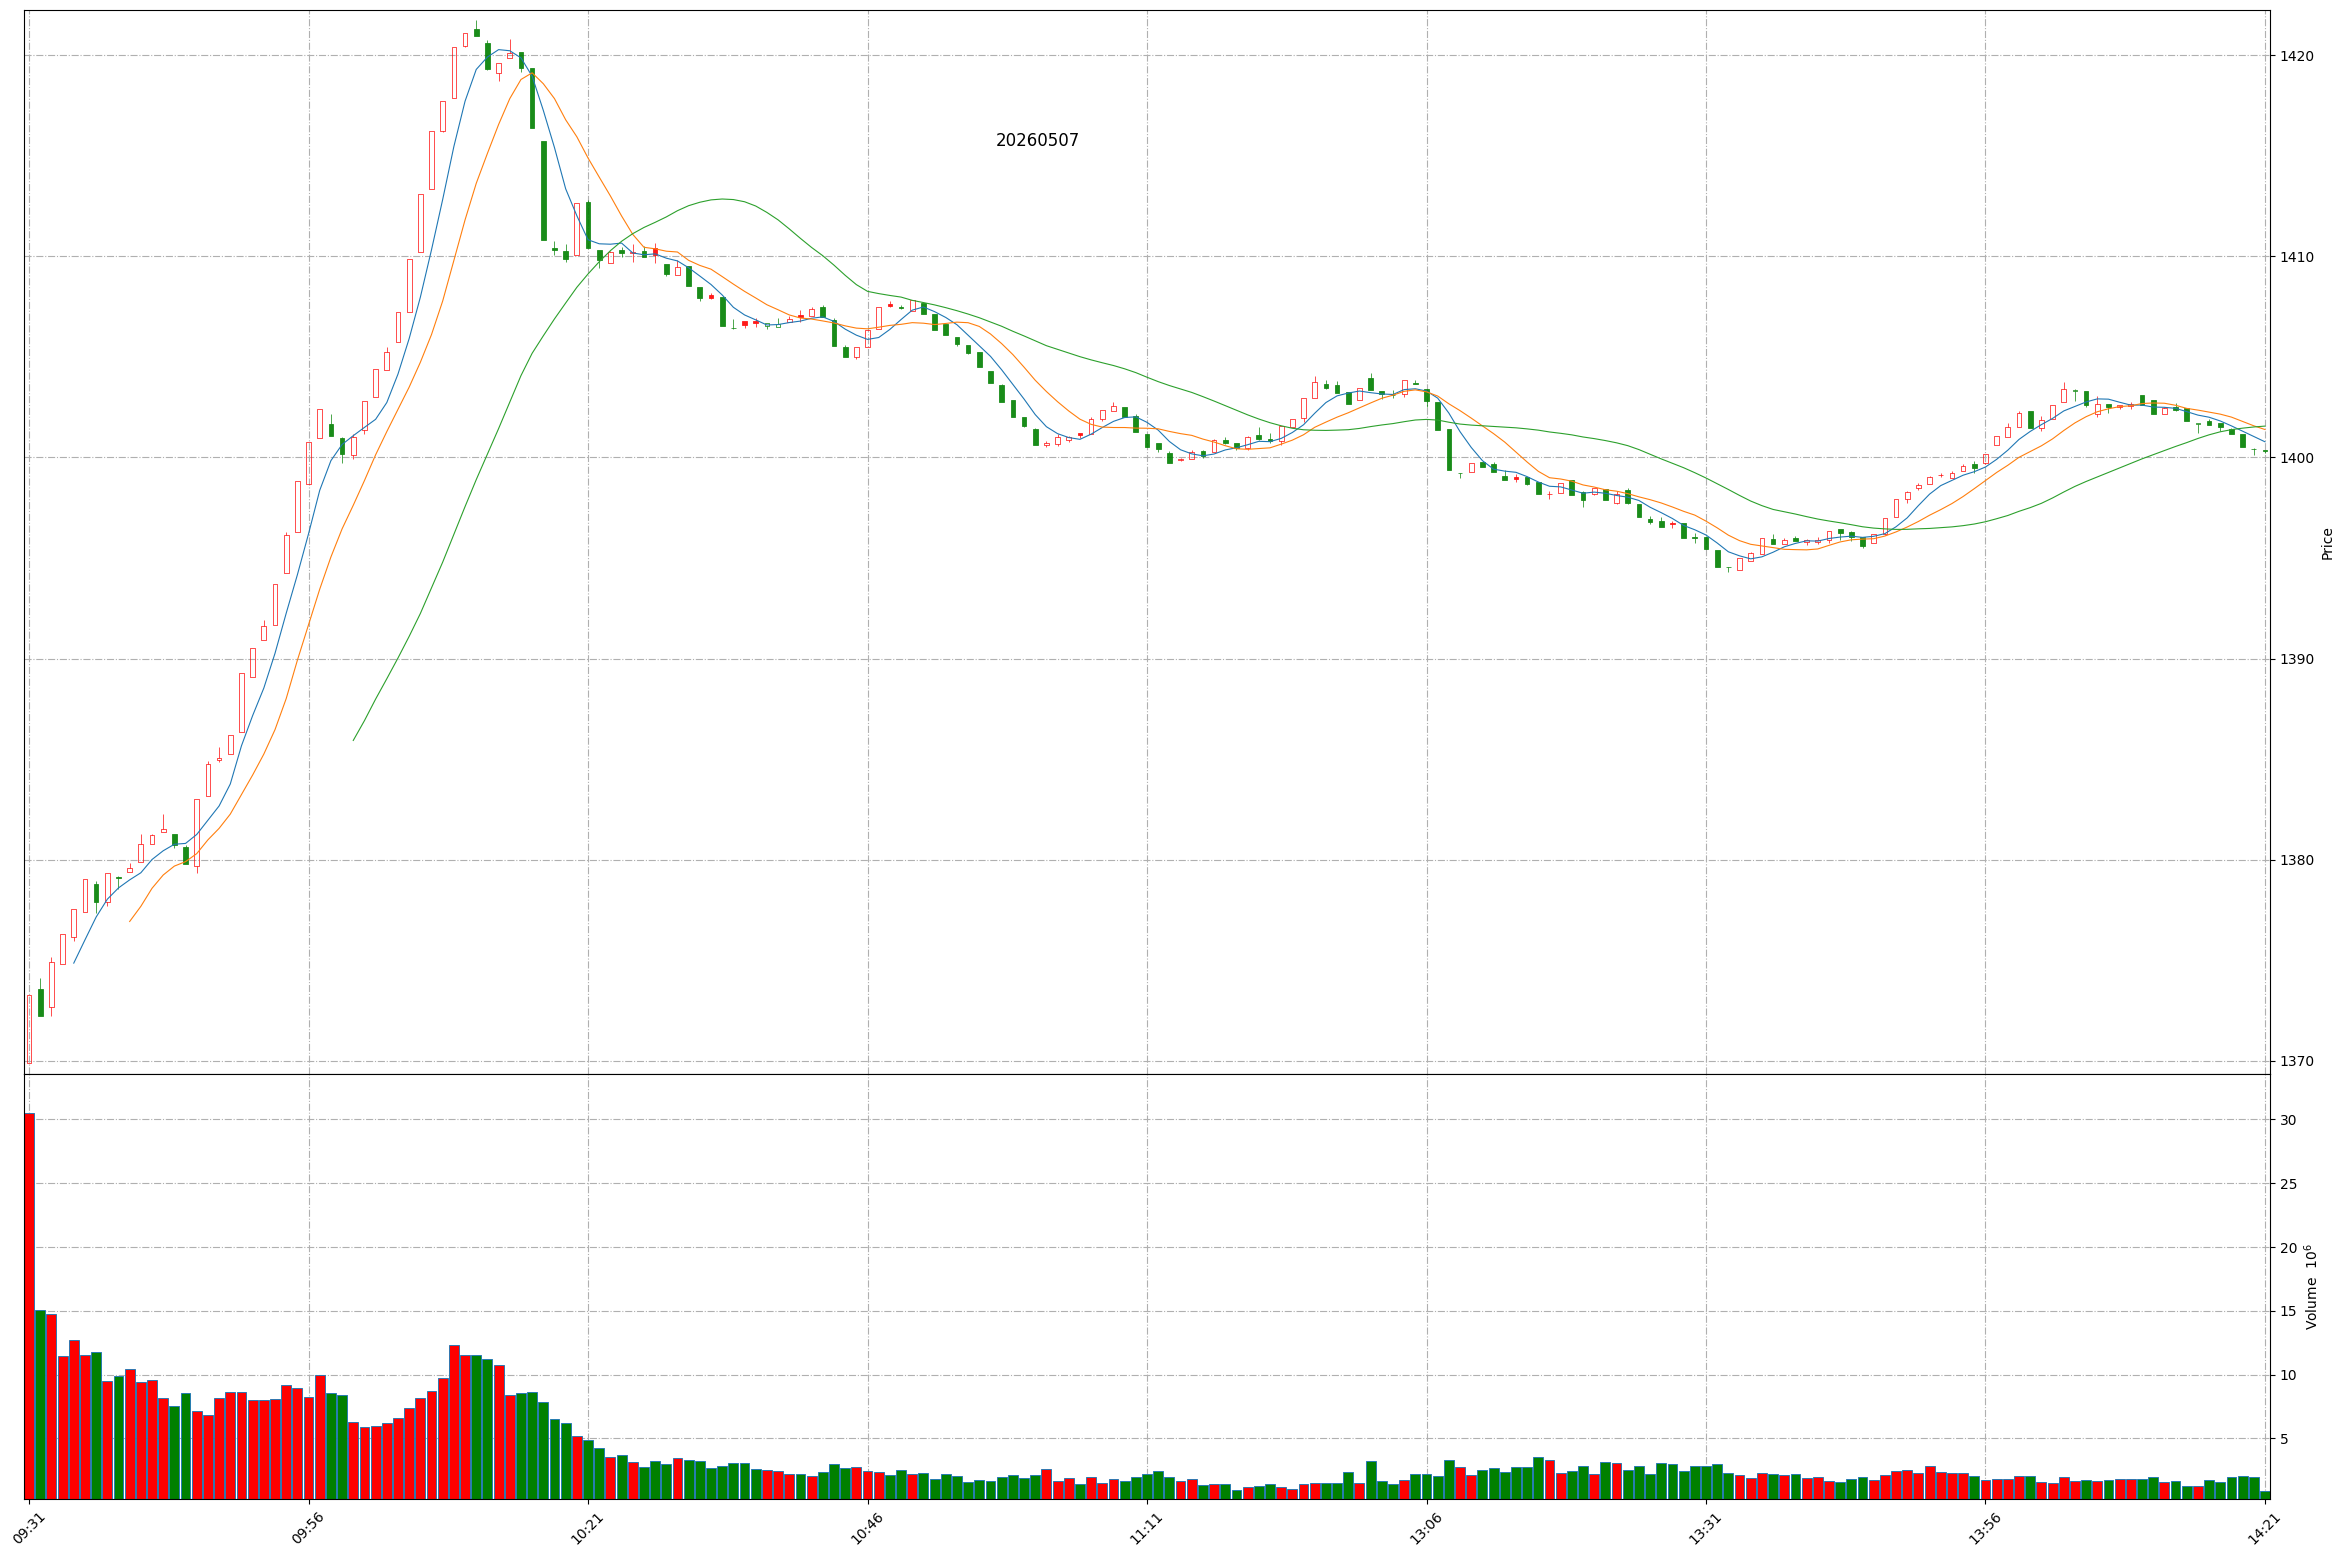
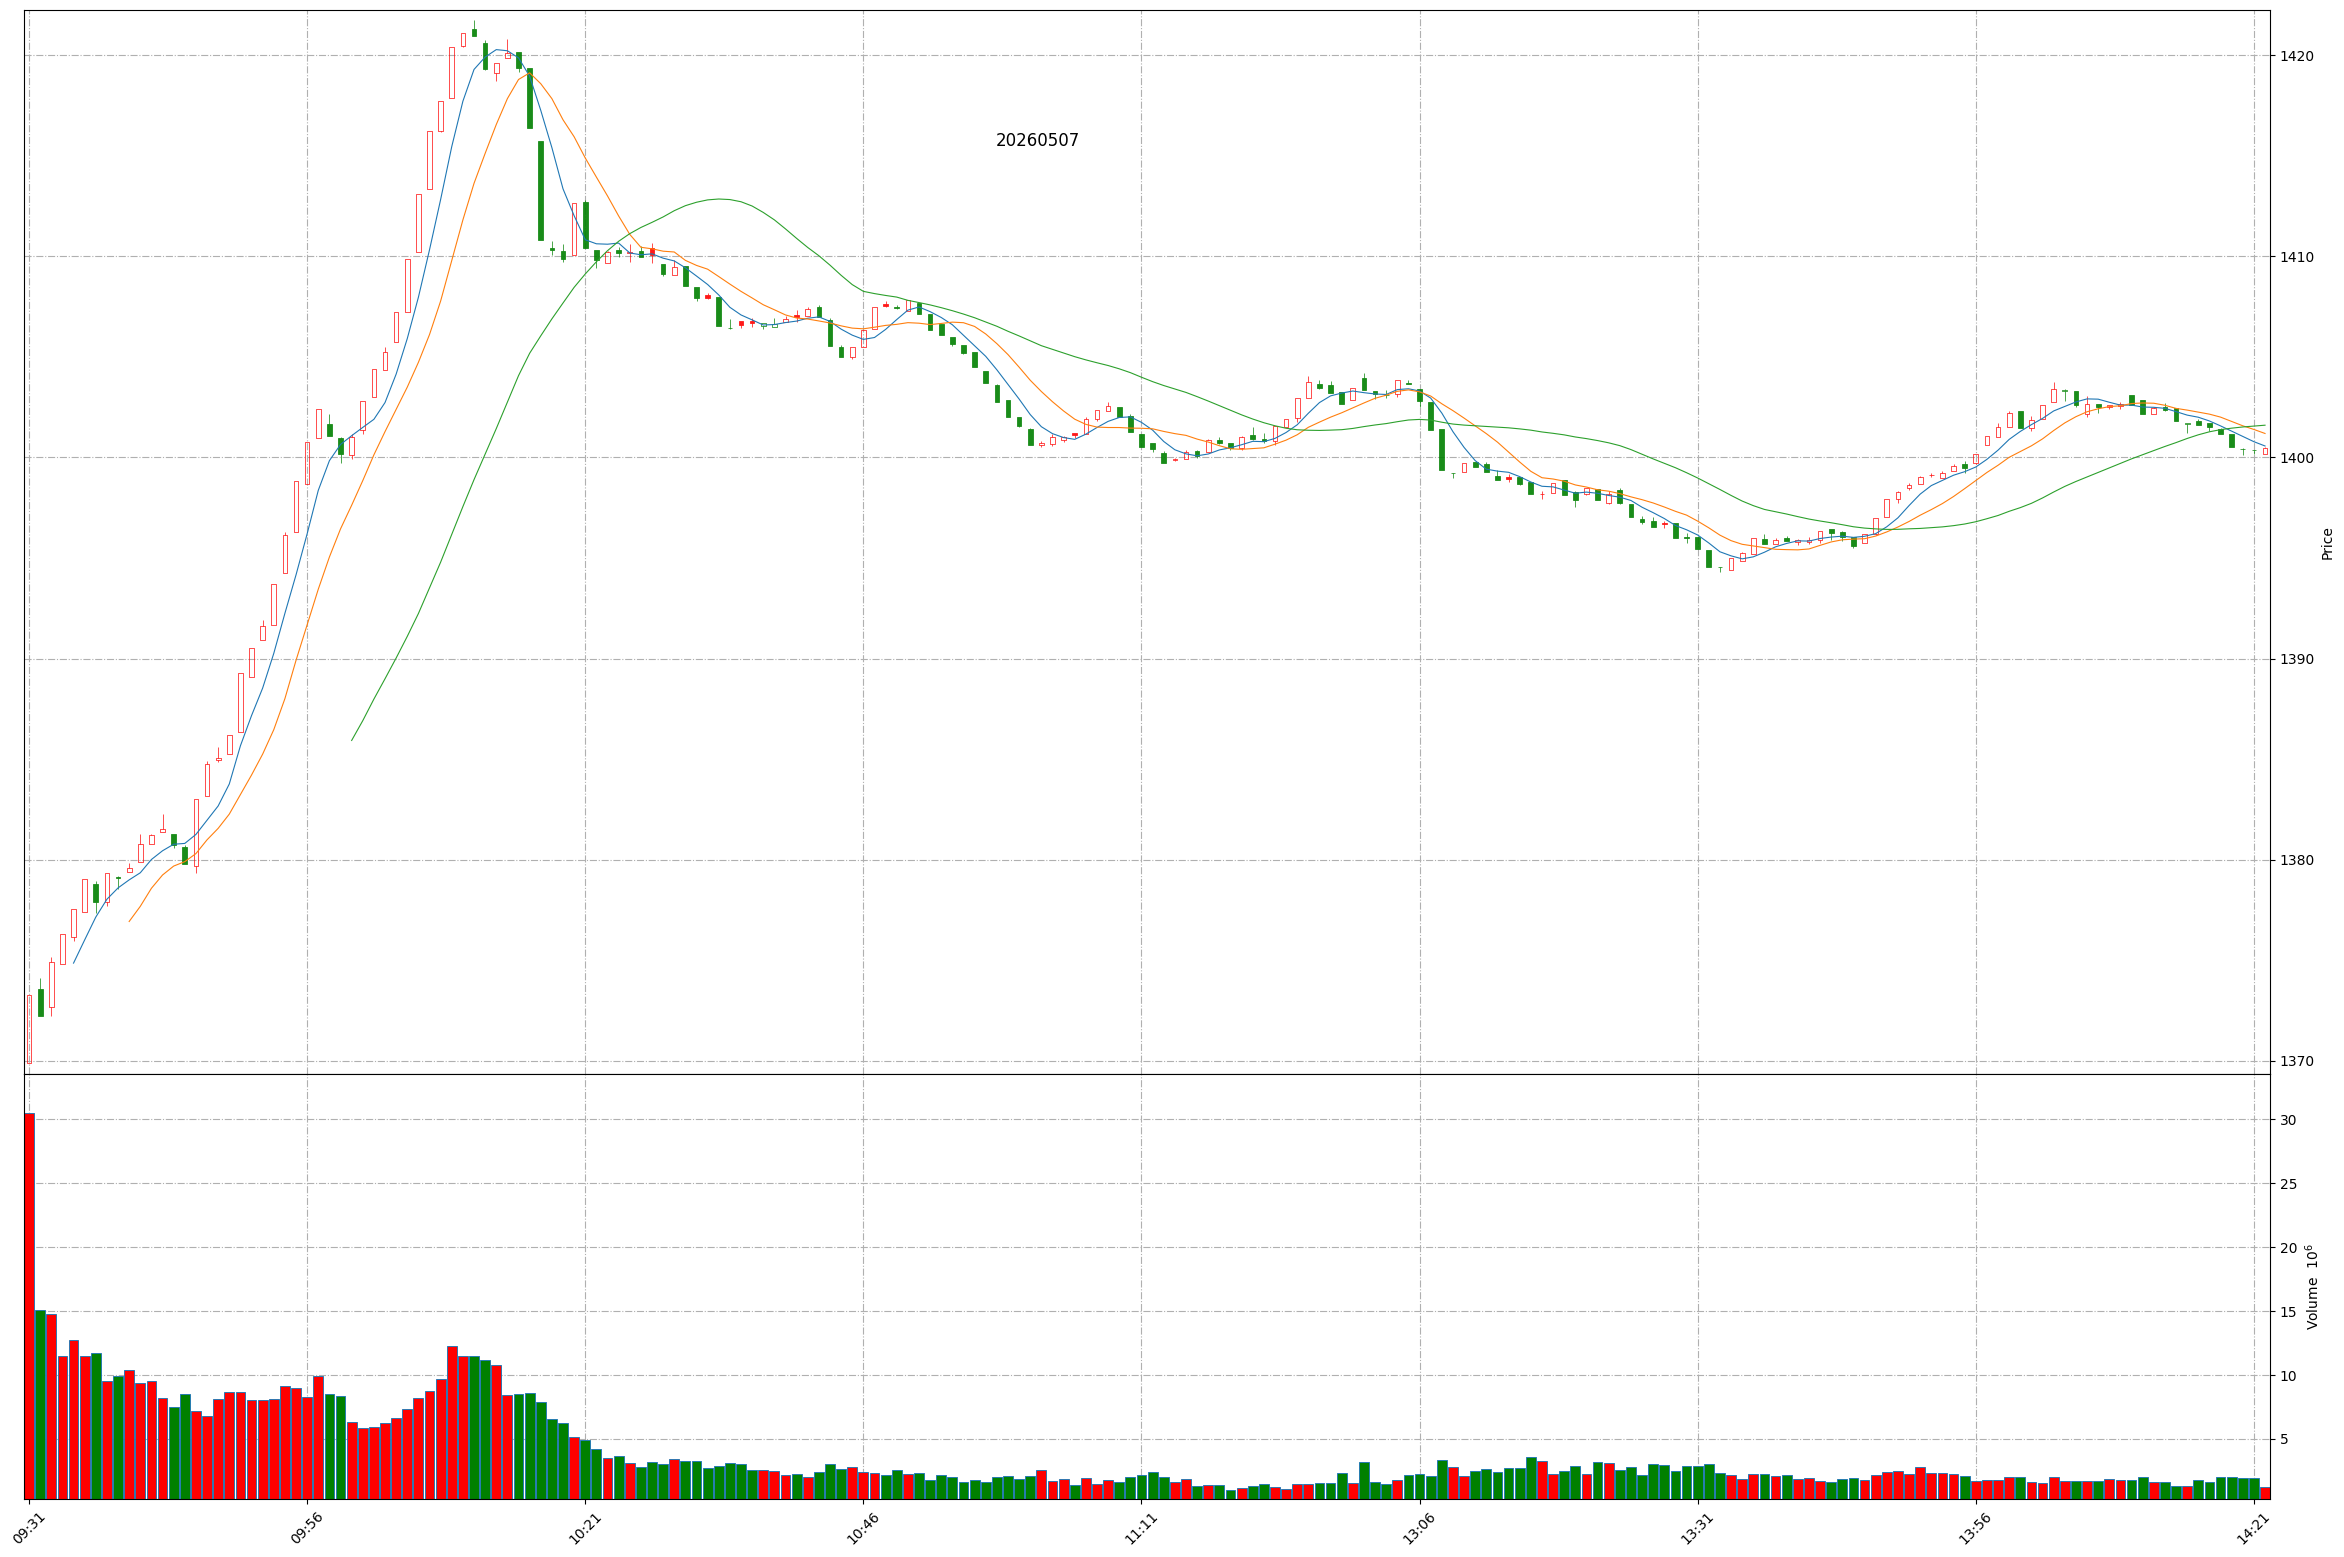
Github action update at 2026-05-07 14:21:55.

diff --git a/README.md b/README.md
@@ -1,11 +1,11 @@
 
 # Daily-A-share-market-quotes 每日 A 股指数（5min 更新）- 20260507
 
-### 上证指数 20260507 14:20
+### 上证指数 20260507 14:21
 ![](./fig/2026/5/20260507-sh000001.png)
 
-### 深证成指 20260507 14:20
+### 深证成指 20260507 14:21
 ![](./fig/2026/5/20260507-sz399001.png)
 
-### 北证50 20260507 14:20
+### 北证50 20260507 14:21
 ![](./fig/2026/5/20260507-bj899050.png)
